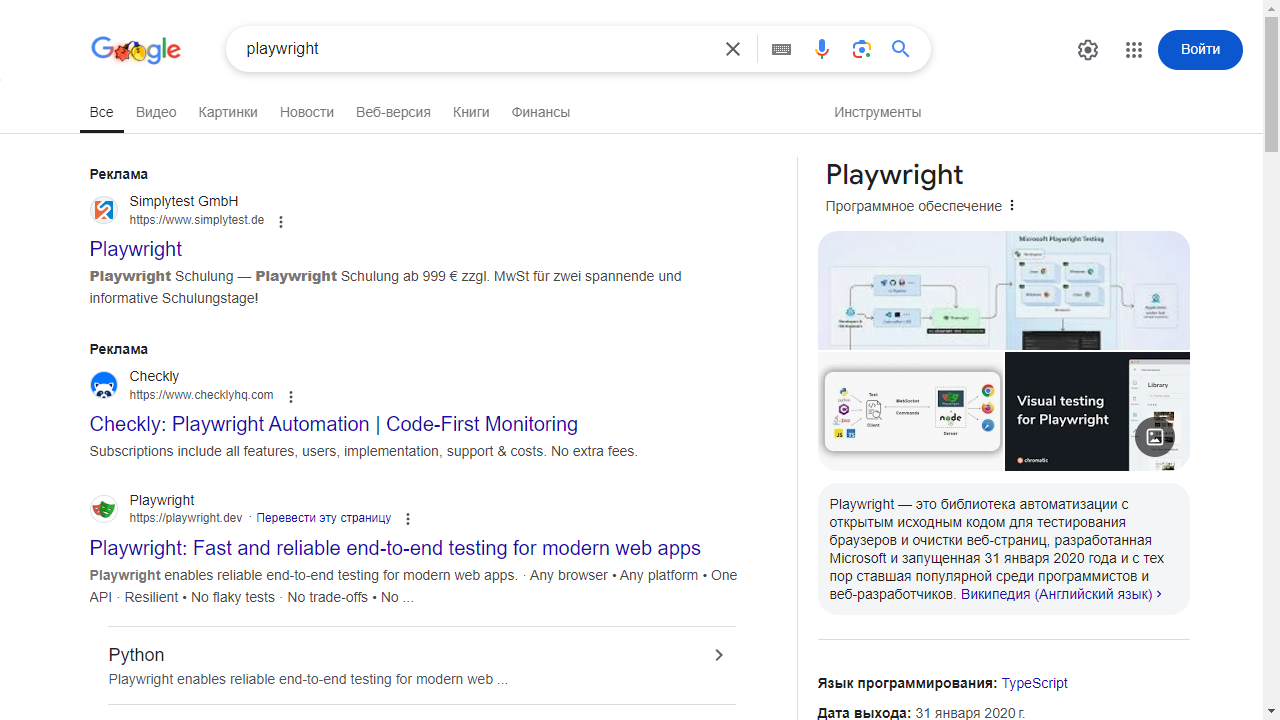
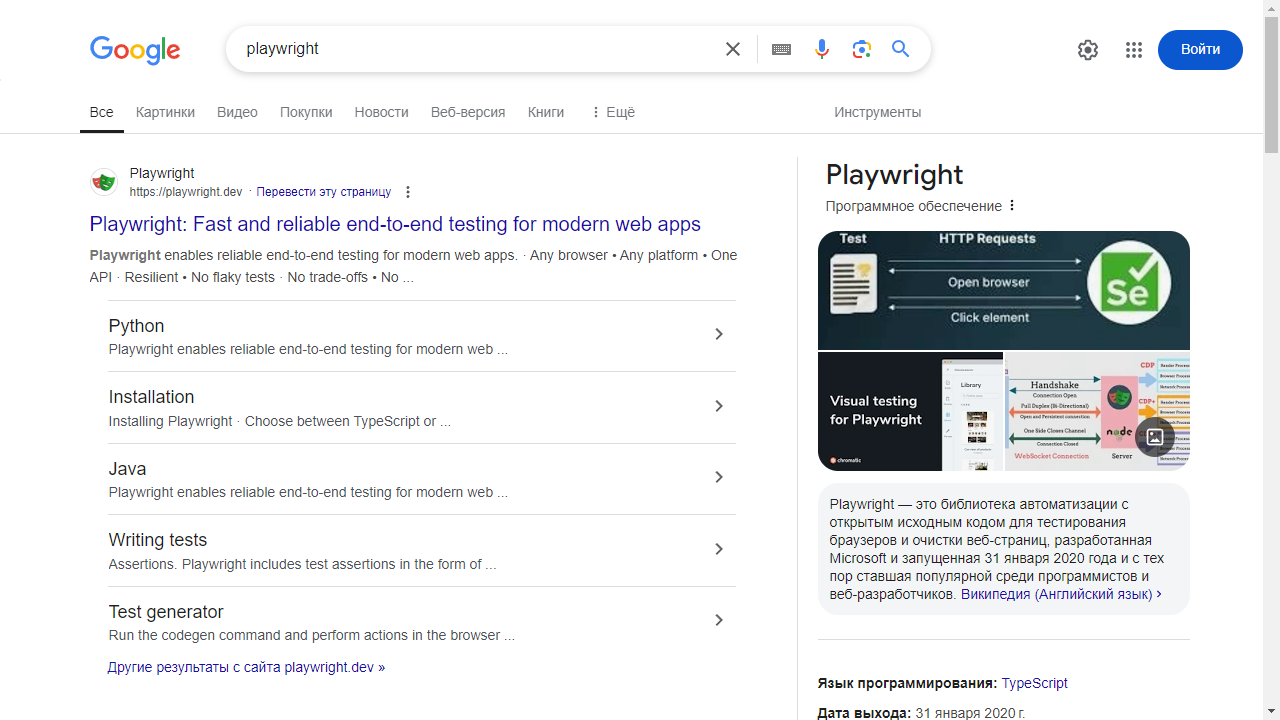
Add playwrightAsync_2.py

diff --git a/playwrightAsync_2.py b/playwrightAsync_2.py
@@ -1,0 +1,35 @@
+import pytest
+import asyncio
+from playwright.async_api import async_playwright
+
+@pytest.mark.asyncio
+async def test_google_search():
+    async with async_playwright() as p:
+        browser = await p.chromium.launch(headless=False)
+        page = await browser.new_page()
+        print("Переход на сайт Google")
+        await page.goto("https://www.google.com")
+        #print("Принимаем условия")
+        #await page.get_by_role("none").get_by_text("Принять все").click()
+        print("Ожидание элемента поиска")
+        await page.wait_for_selector("textarea[name='q']")
+        print("Вводим 'playwright' в строку поиска")
+        await page.fill("textarea[name='q']", "playwright")
+        await asyncio.sleep(1)
+        print("Отправка формы")
+        await page.press("textarea[name='q']", "Enter")
+        await asyncio.sleep(2)
+        print("Ожидание загрузки результатов")
+        await page.wait_for_selector("#search")
+        title = await page.title()
+        assert "playwright" in title.lower(), f"Заголовок страницы не содержит 'playwright', а содержит: {title}"
+        print(f"Заголовок страницы: {title}")
+        content = await page.content()
+        assert "playwright" in content, "Результаты поиска не содержат 'playwright'"
+        results = await page.query_selector_all("h3")
+        assert len(results) > 0, "Не найдено ни одного результата поиска"
+        print(f"Найдено {len(results)} результатов поиска.")
+        await page.screenshot(path="search_results.png")
+        print("Скриншот страницы результатов сохранен как 'search_results.png'.")
+        print("Тест пройден успешно!")
+        await browser.close()
